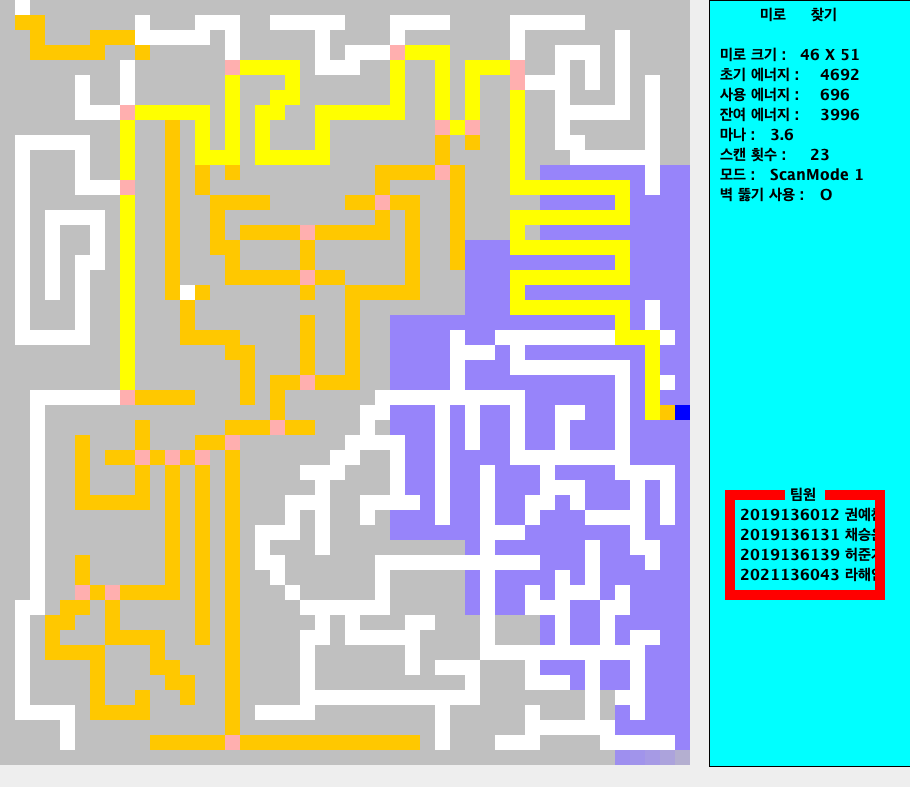
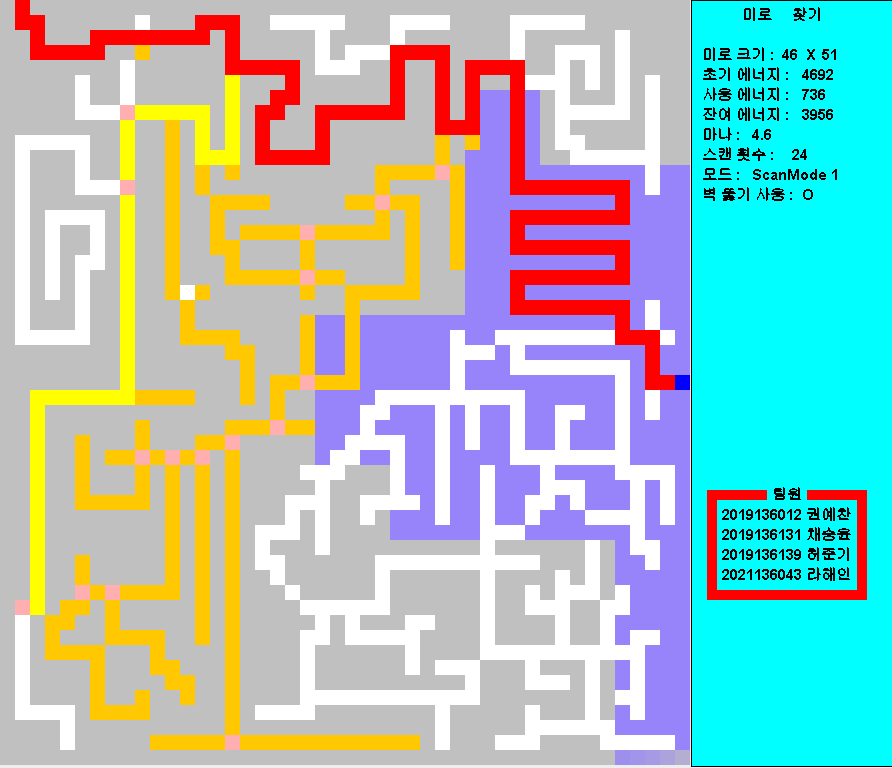
최적 경로 출력

diff --git a/CeremonyAlgorithm.java b/CeremonyAlgorithm.java
@@ -45,7 +45,7 @@ public class CeremonyAlgorithm {
         // SetUp: 사용 가능한 미로로 변환 (Cell에 저장)
         stack = new LinkedStack<Point>();
         buffer = new LinkedStack<Point>();
-        String filename = "Maze2.txt";
+        String filename = "Maze1.txt";
         maze = new Maze(readMaze(filename)); // 처음 그대로의 원본 미로 + 쥐로 인해 변경된 정보
         mouseMap = new Maze(readMaze(filename)); // 쥐의 시야, maze에 영향을 받음
         view = new Maze(readMaze(filename)); // 처음 그대로의 원본 미로 + 쥐가 간 길만 표시 (visit)
@@ -60,10 +60,10 @@ public class CeremonyAlgorithm {
         int widthCount2 = 0;
 
         mouse.setMap();
-        gui = new GUI(scanMap, mouse, scanMap);
-        bufferTime = 10;
-        stackTime = 10;
-        setTime = 10;
+        gui = new GUI(maze, mouse, scanMap);
+        bufferTime = 1;
+        stackTime = 1;
+        setTime = 1;
         scanList = new ArrayList<>();
         scanDistanceQueue = new PriorityQueue<>(Comparator.comparingDouble(p -> calculateDistance(p))); // 거리가 짧을 수록 우선순위 높음 -> 다시 스택에 넣지 않을 거임
 
@@ -257,12 +257,23 @@ public class CeremonyAlgorithm {
                 if (mouse.map.getCell(now.x, now.y).isExit()) {
                     System.out.println("point008: Exit state, Done");
                     System.out.println("Exit");
+                    AstarAlgorithm astarAlgorithm = new AstarAlgorithm(maze, 0, 1, maze.getEndPoint().x, maze.getEndPoint().y);
+                    int[][] bestPath = astarAlgorithm.run();
+                    // 출구 도착 후 최적 경로(최단 경로) 표시
+                    if (bestPath != null) {
+                        for (int i=0; i<bestPath.length; i++) {
+                            maze.getCell(bestPath[i][0], bestPath[i][1]).setState(Cell.State.BEST);
+                            gui.repaint();
+                            TimeUnit.MILLISECONDS.sleep(1);
+                        }
+                    }
                     System.out.println("이미지를 저장 중입니다. 프로그램을 절대 종료하지 마세요!!");
                     gui.saveAsImage("viewResult.png", view);
                     gui.saveAsImage("scanResult.png", scanMap);
                     gui.saveAsImage("mazeResult.png", maze);
                     gui.saveAsImage("mouseMap.png", mouseMap);
                     System.out.println("프로그램 종료");
+                    System.out.println("scanList: " + scanList);
                     return;
                 }
                 // else

diff --git a/Cell.java b/Cell.java
@@ -4,6 +4,7 @@ public class Cell {
     private boolean isExit; // 출구
     private boolean isVisited; // 방문한 곳
     private boolean isBranch; // 분기점인가?
+    private boolean isBest;
 
     public enum State {
         AVAILABLE,
@@ -11,7 +12,8 @@ public class Cell {
         EXIT,
         VISIT,
         NotRecommended,
-        BRANCH
+        BRANCH,
+        BEST
     }
 
     public Cell(int info) {
@@ -20,6 +22,7 @@ public class Cell {
         this.isExit = (info == 2);
         this.isVisited = (info == 3);
         this.isBranch = false;
+        this.isBest = false;
     }
 
     public Cell(Cell cell) {
@@ -28,6 +31,7 @@ public class Cell {
         this.isExit = cell.isExit;
         this.isVisited = cell.isVisited;
         this.isBranch = cell.isBranch;
+        this.isBest = cell.isBest;
     }
 
     public static Cell createCopy(Cell cell) {
@@ -53,6 +57,7 @@ public class Cell {
     public boolean isBranch(){
         return this.isBranch;
     }
+    public boolean isBest() {return this.isBest;}
 
 
     //방문 가능한데, 이미 방문했을 수도 있는거 아닌가? 상태를 딱 하나만 정하는게 맞나?
@@ -67,6 +72,9 @@ public class Cell {
         }
         else if(isBranch){
             return State.BRANCH;
+        }
+        else if(isBest) {
+            return State.BEST;
         }
         else if(isAvailable){
             if(isVisited)
@@ -118,6 +126,14 @@ public class Cell {
             case BRANCH:
                 this.isBranch = true;
                 this.isVisited = true;
+                break;
+            case BEST:
+                this.isBest = true;
+                this.isAvailable = false;
+                this.isVisited = false;
+                this.isWall = false;
+                this.isBranch = false;
+                this.isExit = false;
                 break;
             default:
                 System.out.println("That state does not exist.");

diff --git a/GUI.java b/GUI.java
@@ -65,6 +65,9 @@ public class GUI extends JPanel {
                     case BRANCH:
                         g2d.setColor(Color.PINK);
                         break;
+                    case BEST:
+                        g2d.setColor(Color.red);
+                        break;
                 }
 
                 if (mouse.getLocation().x == i && mouse.getLocation().y == j) {
